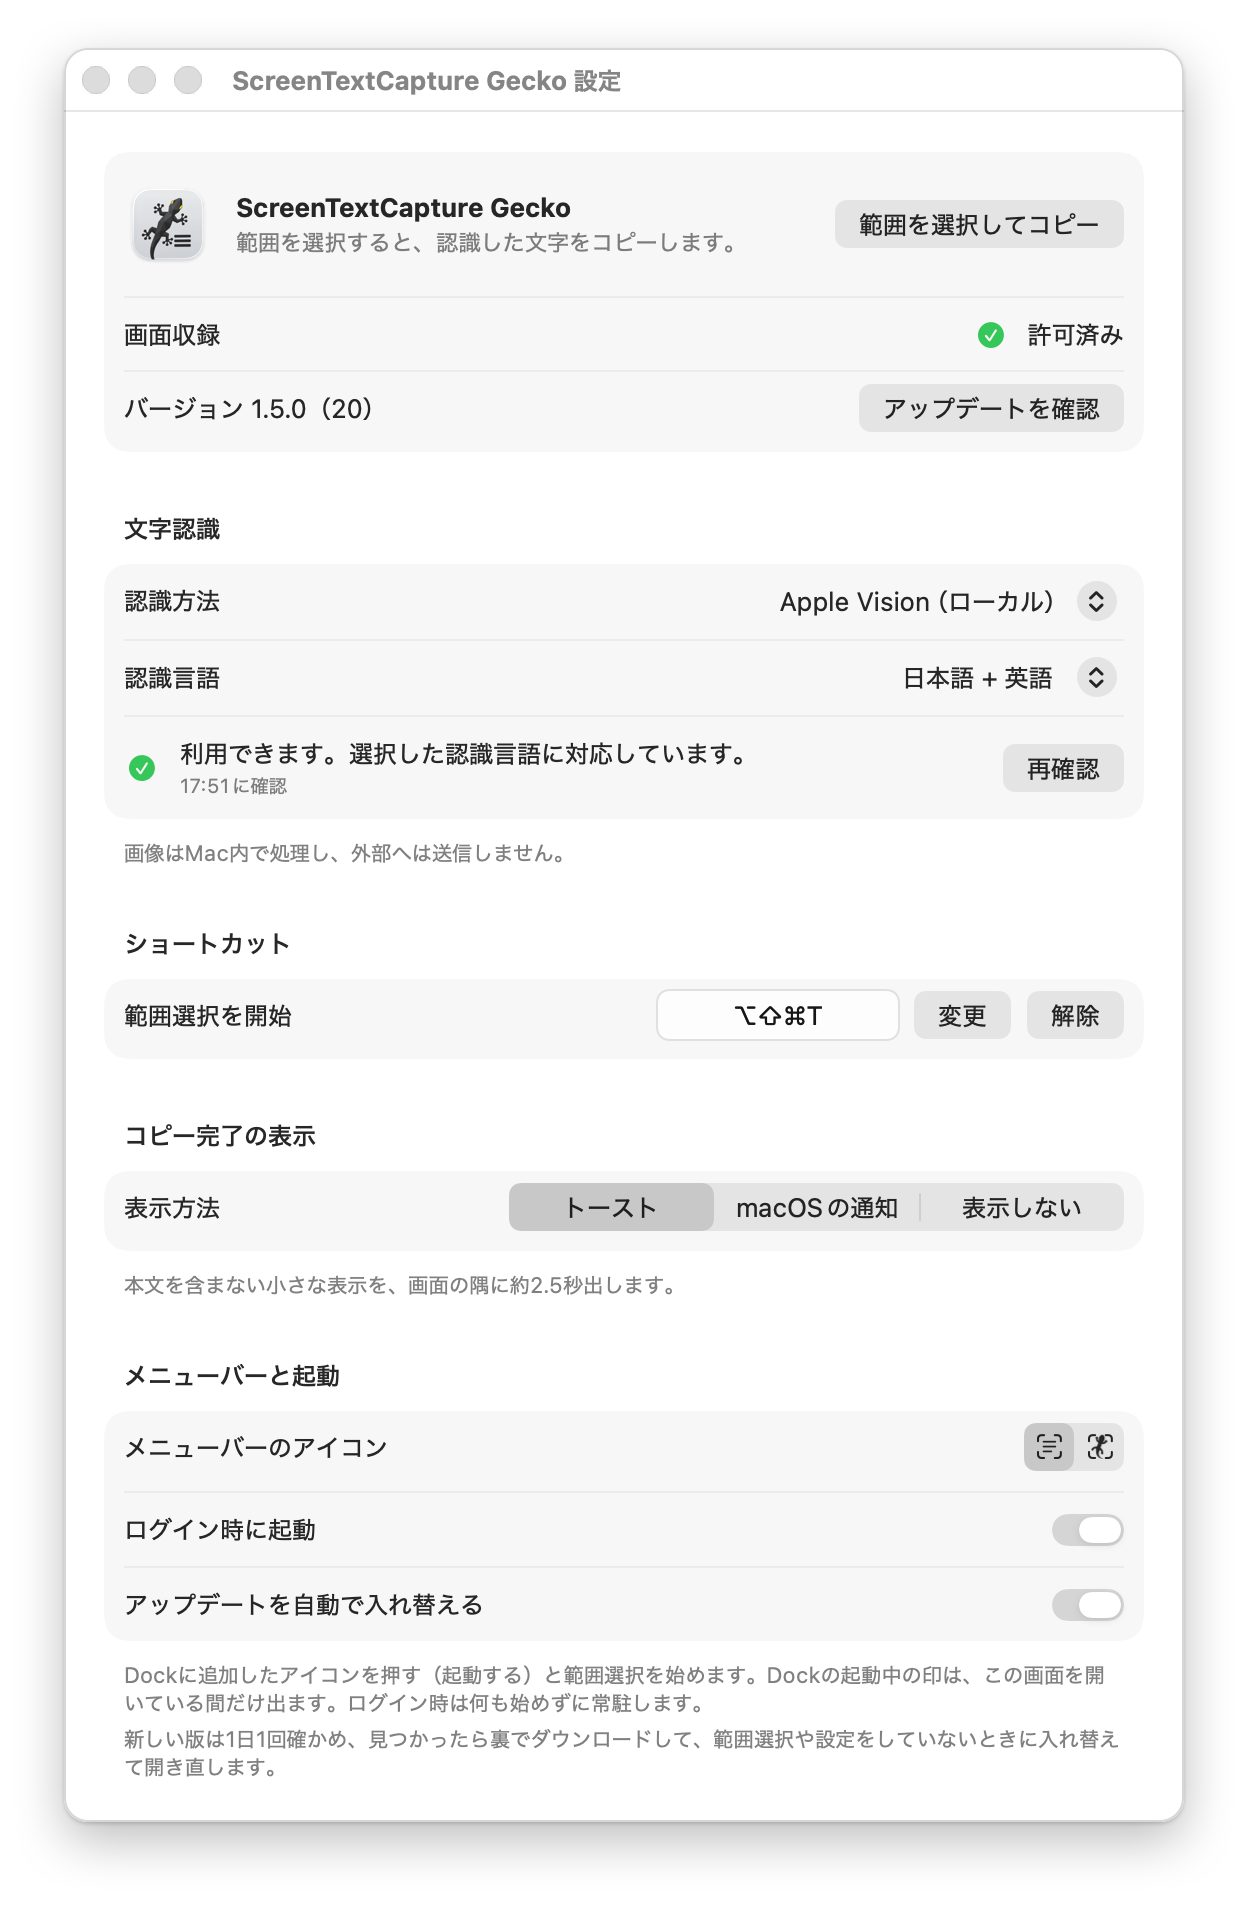
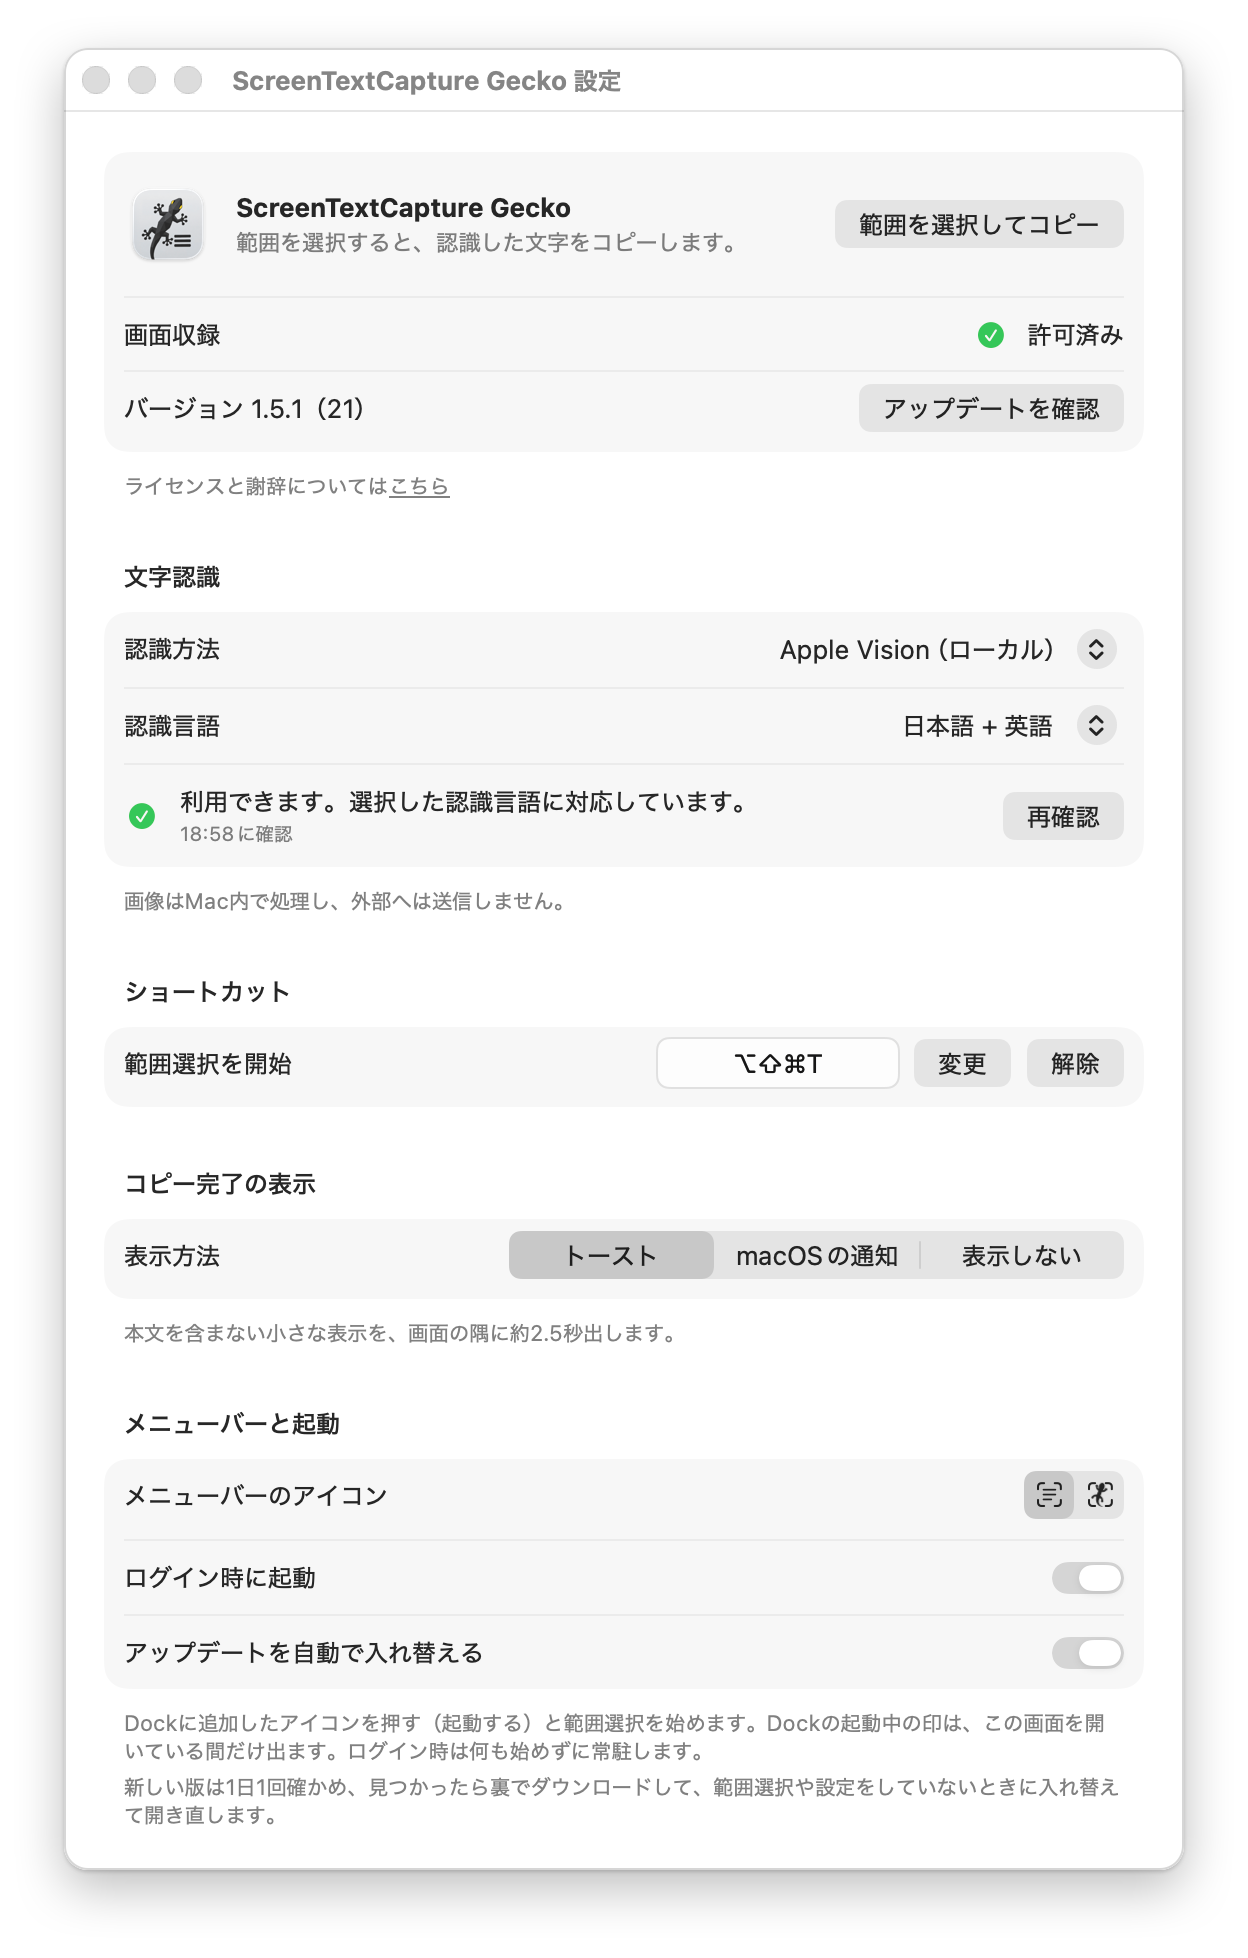
追加(1.5.1): 元のプロジェクトへの謝辞と許諾文を確かめられる設定のリンクと、DMG の中から開いたときのアプリケーションフォルダへの案内
- 設定画面に「ライセンスと謝辞についてはこちら」のリンクを追加
- README の謝辞に Sparkle を追加
- DMG の中から開いたときに、アプリケーションフォルダにコピーしてから開くよう案内
- DMG の窓に、Applications へのドラッグとアプリケーションフォルダからの起動の手順を表示

diff --git a/scripts/dmg-background.swift b/scripts/dmg-background.swift
@@ -1,7 +1,7 @@
 // 配る DMG を開いたときの窓の背景を描き、等倍と2倍を1つの TIFF にして書き出す（scripts/make-dmg.sh から呼ぶ）
 // 使い方: xcrun swift scripts/dmg-background.swift <書き出す TIFF> <アイコンの絵> <幅> <高さ> <アプリの中心 x> <リンクの中心 x> <アイコンの中心 y>
 //   数は pt。make-dmg.sh が、.DS_Store に書くアイコンの位置と同じ数を渡す。
-// 左に ScreenTextCapture Gecko、右に Applications（どちらも Finder が描くアイコンと名前）を置き、その間の矢印と下の一言で、ドラッグして入れることを伝える。
+// 左に ScreenTextCapture Gecko、右に Applications（どちらも Finder が描くアイコンと名前）を置き、その間の矢印と下の手順で、ドラッグして入れることと、アプリケーションフォルダから起動することを伝える。
 // 字は Mac の標準の字体（英字は SF Pro、日本語はヒラギノ角ゴシック）で描く。Finder が描くアイコンの名前や窓の題名と揃い、
 // 紹介ページを Mac で見たときの字とも同じになる。この字体は Mac でしか使えないので、Mac で描く。
 // 背景の絵を付けた窓を、Finder はライトモードとして描く（アイコンの名前が黒になる）ので、不透明な明るい地にする。
@@ -25,9 +25,9 @@ func color(_ hex: Int) -> CGColor {
 let paper = color(0xf8f8f7)  // 窓の地
 let panel = color(0xefeff1)  // 2つのアイコンを載せる台
 let ink = color(0x232427)    // GECKO
-let ink2 = color(0x55585e)   // 矢印と一言
+let ink2 = color(0x55585e)   // 矢印と手順
 
-// 一言の日本語はヒラギノ角ゴシック（英字の SF Pro の Medium と太さをそろえて W5）。紹介ページの見出しと同じく palt で字の間を詰める
+// 手順の日本語はヒラギノ角ゴシック（英字の SF Pro の Medium と太さをそろえて W5）。紹介ページの見出しと同じく palt で字の間を詰める
 func japaneseFont(size: CGFloat) -> CTFont {
   CTFontCreateWithFontDescriptor(CTFontDescriptorCreateWithAttributes([
     kCTFontNameAttribute: "HiraginoSans-W5",
@@ -104,11 +104,28 @@ func drawBackground(in context: CGContext) {
     context.strokePath()
   }
 
-  // 台の下に、真ん中そろえの一言。読みやすさを先に、少し細め（SF Pro の Medium と、ヒラギノの W5）にする
-  let hint = textLine("ScreenTextCapture Gecko を Applications へドラッグしてください", font: NSFont.systemFont(ofSize: 14, weight: .medium) as CTFont,
-                      japanese: japaneseFont(size: 14), color: ink2, tracking: 0)
-  let hintWidth = CGFloat(CTLineGetTypographicBounds(hint, nil, nil, nil))
-  draw(hint, x: (width - hintWidth) / 2, baseline: 361, in: context)
+  // 台の下に、番号を付けた手順を2つ。読みやすさを先に、少し細め（SF Pro の Medium と、ヒラギノの W5）にする
+  // 文の左端をそろえて順番を見せ、番号と文のかたまりを窓の真ん中に置く（かたまりの幅は長い方の文で決まる）
+  let stepFont = NSFont.systemFont(ofSize: 14, weight: .medium) as CTFont
+  let numberFont = NSFont.systemFont(ofSize: 12, weight: .semibold) as CTFont
+  let steps = [
+    "ScreenTextCapture Gecko を Applications へドラッグしてください",
+    "アプリケーションフォルダから起動してください",
+  ].map { textLine($0, font: stepFont, japanese: japaneseFont(size: 14), color: ink2, tracking: 0) }
+  let badge: CGFloat = 20
+  let badgeGap: CGFloat = 10
+  let textWidth = steps.map { CGFloat(CTLineGetTypographicBounds($0, nil, nil, nil)) }.max() ?? 0
+  let left = (width - badge - badgeGap - textWidth) / 2
+  for (index, step) in steps.enumerated() {
+    let baseline = 355 + 30 * CGFloat(index)
+    let centerY = baseline - CTFontGetCapHeight(stepFont) / 2
+    context.setFillColor(ink2)
+    context.fillEllipse(in: CGRect(x: left, y: centerY - badge / 2, width: badge, height: badge))
+    let number = textLine(String(index + 1), font: numberFont, color: paper, tracking: 0)
+    let numberWidth = CGFloat(CTLineGetTypographicBounds(number, nil, nil, nil))
+    draw(number, x: left + (badge - numberWidth) / 2, baseline: centerY + CTFontGetCapHeight(numberFont) / 2, in: context)
+    draw(step, x: left + badge + badgeGap, baseline: baseline, in: context)
+  }
 }
 
 func render(scale: CGFloat) -> NSBitmapImageRep {

diff --git a/screentextcapture/DiskImageLaunch.swift b/screentextcapture/DiskImageLaunch.swift
@@ -1,0 +1,48 @@
+import AppKit
+import DiskArbitration
+
+/// 配っているDMGの中から開いたときの案内。中のまま使うとディスクを取り出せないので、アプリケーションフォルダから開くよう伝える。
+/// 見るのはDMGの中かどうかだけで、/Applicationsにあるかは見ない（外部ディスクなどに置いて使う人もいるため）
+enum DiskImageLaunch {
+    /// 起動の最初に呼ぶ。DMGの中なら案内を出し、アプリケーションフォルダを開くことを選んだら、このアプリを終える
+    @MainActor
+    static func guideIfNeeded() {
+        guard isInsideReadOnlyImage(Bundle.main.bundleURL) else { return }
+        let alert = NSAlert()
+        alert.messageText = "アプリケーションフォルダにコピーしてから開いてください"
+        alert.informativeText = "ダウンロードしたディスクイメージの中の ScreenTextCapture Gecko を開いています。\nアプリケーションフォルダにコピーしてから、アプリケーションフォルダの ScreenTextCapture Gecko を開いてください。"
+        alert.addButton(withTitle: "アプリケーションフォルダを開く")
+        // 案内にとどめ、使えなくはしない（試すだけの人もいるため）
+        alert.addButton(withTitle: "このまま使う")
+        // メニューバーだけで動く作りなので、前に出さないと窓の後ろに隠れる
+        NSApp.activate(ignoringOtherApps: true)
+        guard alert.runModal() == .alertFirstButtonReturn else { return }
+        NSWorkspace.shared.open(URL(fileURLWithPath: "/Applications", isDirectory: true))
+        // 開いたままだとディスクを取り出せないうえ、後から開いたアプリケーションフォルダのアプリも、
+        // 常駐中のこちらへ合図して終わるだけで入れ替わらないので終える（InstanceLease）
+        exit(0)
+    }
+
+    /// 読み取り専用のディスクイメージの中にあればtrue。配るDMGは読み取り専用なので、
+    /// 自分で作った書き込めるディスクイメージ（暗号化した入れ物など）に置いて使う人には案内しない
+    static func isInsideReadOnlyImage(_ url: URL) -> Bool {
+        guard let volume = backingVolume(ofPath: url.path), volume.f_flags & UInt32(MNT_RDONLY) != 0,
+              let session = DASessionCreate(kCFAllocatorDefault),
+              let disk = DADiskCreateFromBSDName(kCFAllocatorDefault, session, text(volume.f_mntfromname)),
+              let description = DADiskCopyDescription(disk) as? [String: Any] else { return false }
+        // ディスクイメージはデバイスのモデルが「Disk Image」になる。外付けのディスクは製品の型番になるので取り違えない
+        return description[kDADiskDescriptionDeviceModelKey as String] as? String == "Disk Image"
+    }
+
+    private static func backingVolume(ofPath path: String) -> statfs? {
+        var volume = statfs()
+        guard statfs(path, &volume) == 0 else { return nil }
+        // ダウンロードしたものをその場で開くと、macOSがApp Translocationで仮の場所（nullfs）に見せるので、元の場所（mntfromname）をたどる。
+        // zipを展開して開いた場合も仮の場所になるので、仮の場所というだけではDMGとみなさない
+        return text(volume.f_fstypename) == "nullfs" ? backingVolume(ofPath: text(volume.f_mntfromname)) : volume
+    }
+
+    private static func text<Field>(_ field: Field) -> String {
+        withUnsafeBytes(of: field) { String(cString: $0.bindMemory(to: CChar.self).baseAddress!) }
+    }
+}

diff --git a/screentextcapture/LicensePanel.swift b/screentextcapture/LicensePanel.swift
@@ -1,0 +1,37 @@
+import AppKit
+
+// 設定の「ライセンスと謝辞」で開く、macOS 標準の「このアプリについて」の窓。
+// 専用の画面を作らず、アイコン・名前・版と、Info.plist の NSHumanReadableCopyright（元の作者とこのフォークの著作権）は窓に任せ、
+// 謝辞と許諾文だけを渡す
+enum LicensePanel {
+    private static let upstreamURL = URL(string: "https://github.com/ku/screentextcapture")!
+    private static let sparkleURL = URL(string: "https://github.com/sparkle-project/Sparkle")!
+
+    static func show() {
+        NSApp.activate(ignoringOtherApps: true)
+        NSApp.orderFrontStandardAboutPanel(options: [.credits: credits()])
+    }
+
+    // 許諾文は scripts/build-release.sh が配る版の Resources に入れる。開発用のビルドには無いので、その場合は謝辞だけを出す
+    static func credits(bundle: Bundle = .main) -> NSAttributedString {
+        let result = NSMutableAttributedString()
+        let centered = NSMutableParagraphStyle()
+        centered.alignment = .center
+        func append(_ text: String, link: URL? = nil, color: NSColor = .labelColor, font: NSFont = .systemFont(ofSize: 11), paragraph: NSParagraphStyle = .default) {
+            var attributes: [NSAttributedString.Key: Any] = [.font: font, .foregroundColor: color, .paragraphStyle: paragraph]
+            if let link { attributes[.link] = link }
+            result.append(NSAttributedString(string: text, attributes: attributes))
+        }
+        append("ku/screentextcapture", link: upstreamURL, paragraph: centered)
+        append(" をもとに作り直したフォークです。\n自動アップデートに ", paragraph: centered)
+        append("Sparkle", link: sparkleURL, paragraph: centered)
+        append(" を使っています。\n", paragraph: centered)
+        for (title, resource) in [("ScreenTextCapture Gecko のライセンス", "LICENSE"), ("Sparkle のライセンス", "Sparkle-LICENSE")] {
+            guard let url = bundle.url(forResource: resource, withExtension: "txt"),
+                  let text = try? String(contentsOf: url, encoding: .utf8) else { continue }
+            append("\n\(title)\n", font: .boldSystemFont(ofSize: 11))
+            append(text.trimmingCharacters(in: .whitespacesAndNewlines) + "\n", color: .secondaryLabelColor, font: .systemFont(ofSize: 10))
+        }
+        return result
+    }
+}

diff --git a/screentextcaptureTests/DiskImageLaunchTests.swift b/screentextcaptureTests/DiskImageLaunchTests.swift
@@ -1,0 +1,54 @@
+import XCTest
+@testable import screentextcapture
+
+/// 判定はmacOSの答え（ディスクのモデル）に頼るので、将来のmacOSで変わったら気づけるよう、本物のディスクイメージで確かめる
+final class DiskImageLaunchTests: XCTestCase {
+    private var work: URL!
+    private var mountPoint: URL { work.appendingPathComponent("mount", isDirectory: true) }
+    private var attached = false
+
+    override func setUpWithError() throws {
+        work = FileManager.default.temporaryDirectory.appendingPathComponent(UUID().uuidString, isDirectory: true)
+        try FileManager.default.createDirectory(at: mountPoint, withIntermediateDirectories: true)
+        try hdiutil("create", "-size", "4m", "-fs", "HFS+", "-volname", "DiskImageLaunchTest", "-quiet", image.path)
+    }
+
+    override func tearDownWithError() throws {
+        if attached { try hdiutil("detach", mountPoint.path, "-quiet", "-force") }
+        try FileManager.default.removeItem(at: work)
+    }
+
+    func testReadOnlyImageIsDetected() throws {
+        try attach("-readonly")
+        XCTAssertTrue(DiskImageLaunch.isInsideReadOnlyImage(mountPoint))
+    }
+
+    func testWritableImageIsNotDetected() throws {
+        try attach()
+        XCTAssertFalse(DiskImageLaunch.isInsideReadOnlyImage(mountPoint))
+    }
+
+    func testOrdinaryLocationsAreNotDetected() {
+        XCTAssertFalse(DiskImageLaunch.isInsideReadOnlyImage(work))
+        XCTAssertFalse(DiskImageLaunch.isInsideReadOnlyImage(Bundle.main.bundleURL))
+        XCTAssertFalse(DiskImageLaunch.isInsideReadOnlyImage(work.appendingPathComponent("missing")))
+    }
+
+    private var image: URL { work.appendingPathComponent("test.dmg") }
+
+    private func attach(_ options: String...) throws {
+        try hdiutil(["attach", image.path, "-nobrowse", "-noverify", "-noautoopen", "-quiet", "-mountpoint", mountPoint.path] + options)
+        attached = true
+    }
+
+    private func hdiutil(_ arguments: String...) throws { try hdiutil(arguments) }
+
+    private func hdiutil(_ arguments: [String]) throws {
+        let process = Process()
+        process.executableURL = URL(fileURLWithPath: "/usr/bin/hdiutil")
+        process.arguments = arguments
+        try process.run()
+        process.waitUntilExit()
+        XCTAssertEqual(process.terminationStatus, 0, "hdiutil \(arguments.joined(separator: " "))")
+    }
+}

diff --git a/screentextcapture/ApplicationMain.swift b/screentextcapture/ApplicationMain.swift
@@ -22,7 +22,10 @@ enum ApplicationMain {
         }
         if lease?.isPrimary == false {
             // An unavailable GUI session must not leave an additional resident process behind.
-            DispatchQueue.global().asyncAfter(deadline: .now() + 3) { exit(0) }
+            // DMGの中から開いたときは、案内の窓の答えを待つので、時間では終えない
+            if !DiskImageLaunch.isInsideReadOnlyImage(Bundle.main.bundleURL) {
+                DispatchQueue.global().asyncAfter(deadline: .now() + 3) { exit(0) }
+            }
             // 起動のApple Eventを受けてから、常駐中のアプリへ「もう一度開いた」（範囲選択を始める）と伝えるかを決める
             // Dockに一瞬出ないよう、補助のプロセスはDockに出さない
             let application = NSApplication.shared
@@ -43,6 +46,8 @@ enum ApplicationMain {
 
 private final class SecondaryInstanceDelegate: NSObject, NSApplicationDelegate {
     func applicationDidFinishLaunching(_ notification: Notification) {
+        // 別のアプリが常駐中でも案内する。DockのアイコンがDMGの中のアプリを指していると、押すたびにディスクが開き直されるため
+        DiskImageLaunch.guideIfNeeded()
         if LaunchContext.current.forwardsReopen {
             // Bounded retry covers simultaneous initial launches before the primary installs its observer.
             for attempt in 0..<3 {

diff --git a/screentextcapture/SettingsView.swift b/screentextcapture/SettingsView.swift
@@ -174,13 +174,22 @@ struct SettingsView: View {
                     }
                 }
             }
-            LabeledContent("バージョン \(appVersion)") {
+            LabeledContent {
                 if model.updatesAvailable {
                     // 結果は Sparkle の窓で見せ、新しい版はそこから入れる
                     Button("アップデートを確認") { model.updateCheckAction?() }
                 } else {
                     Text("配布版でだけ確かめます").foregroundStyle(.secondary)
                 }
+            } label: {
+                Text("バージョン \(appVersion)")
+            }
+        } footer: {
+            // 謝辞は控えめに出す。ほかの枠の下の注記と同じ文字と色のまま、「こちら」の下線だけでリンクと分かるようにする
+            HStack(spacing: 0) {
+                Text("ライセンスと謝辞については")
+                Button { LicensePanel.show() } label: { Text("こちら").underline() }
+                    .buttonStyle(.plain)
             }
         }
     }

diff --git a/screentextcapture/AppDelegate.swift b/screentextcapture/AppDelegate.swift
@@ -20,6 +20,7 @@ final class AppDelegate: NSObject, NSApplicationDelegate, NSWindowDelegate, UNUs
     func applicationDidFinishLaunching(_ notification: Notification) {
         // Hosted tests never register shortcuts, open windows or request OS permissions.
         if ProcessInfo.processInfo.environment["XCTestConfigurationFilePath"] != nil { return }
+        DiskImageLaunch.guideIfNeeded()
         installMainMenu()
         UNUserNotificationCenter.current().delegate = self
         item = NSStatusBar.system.statusItem(withLength: NSStatusItem.squareLength)
